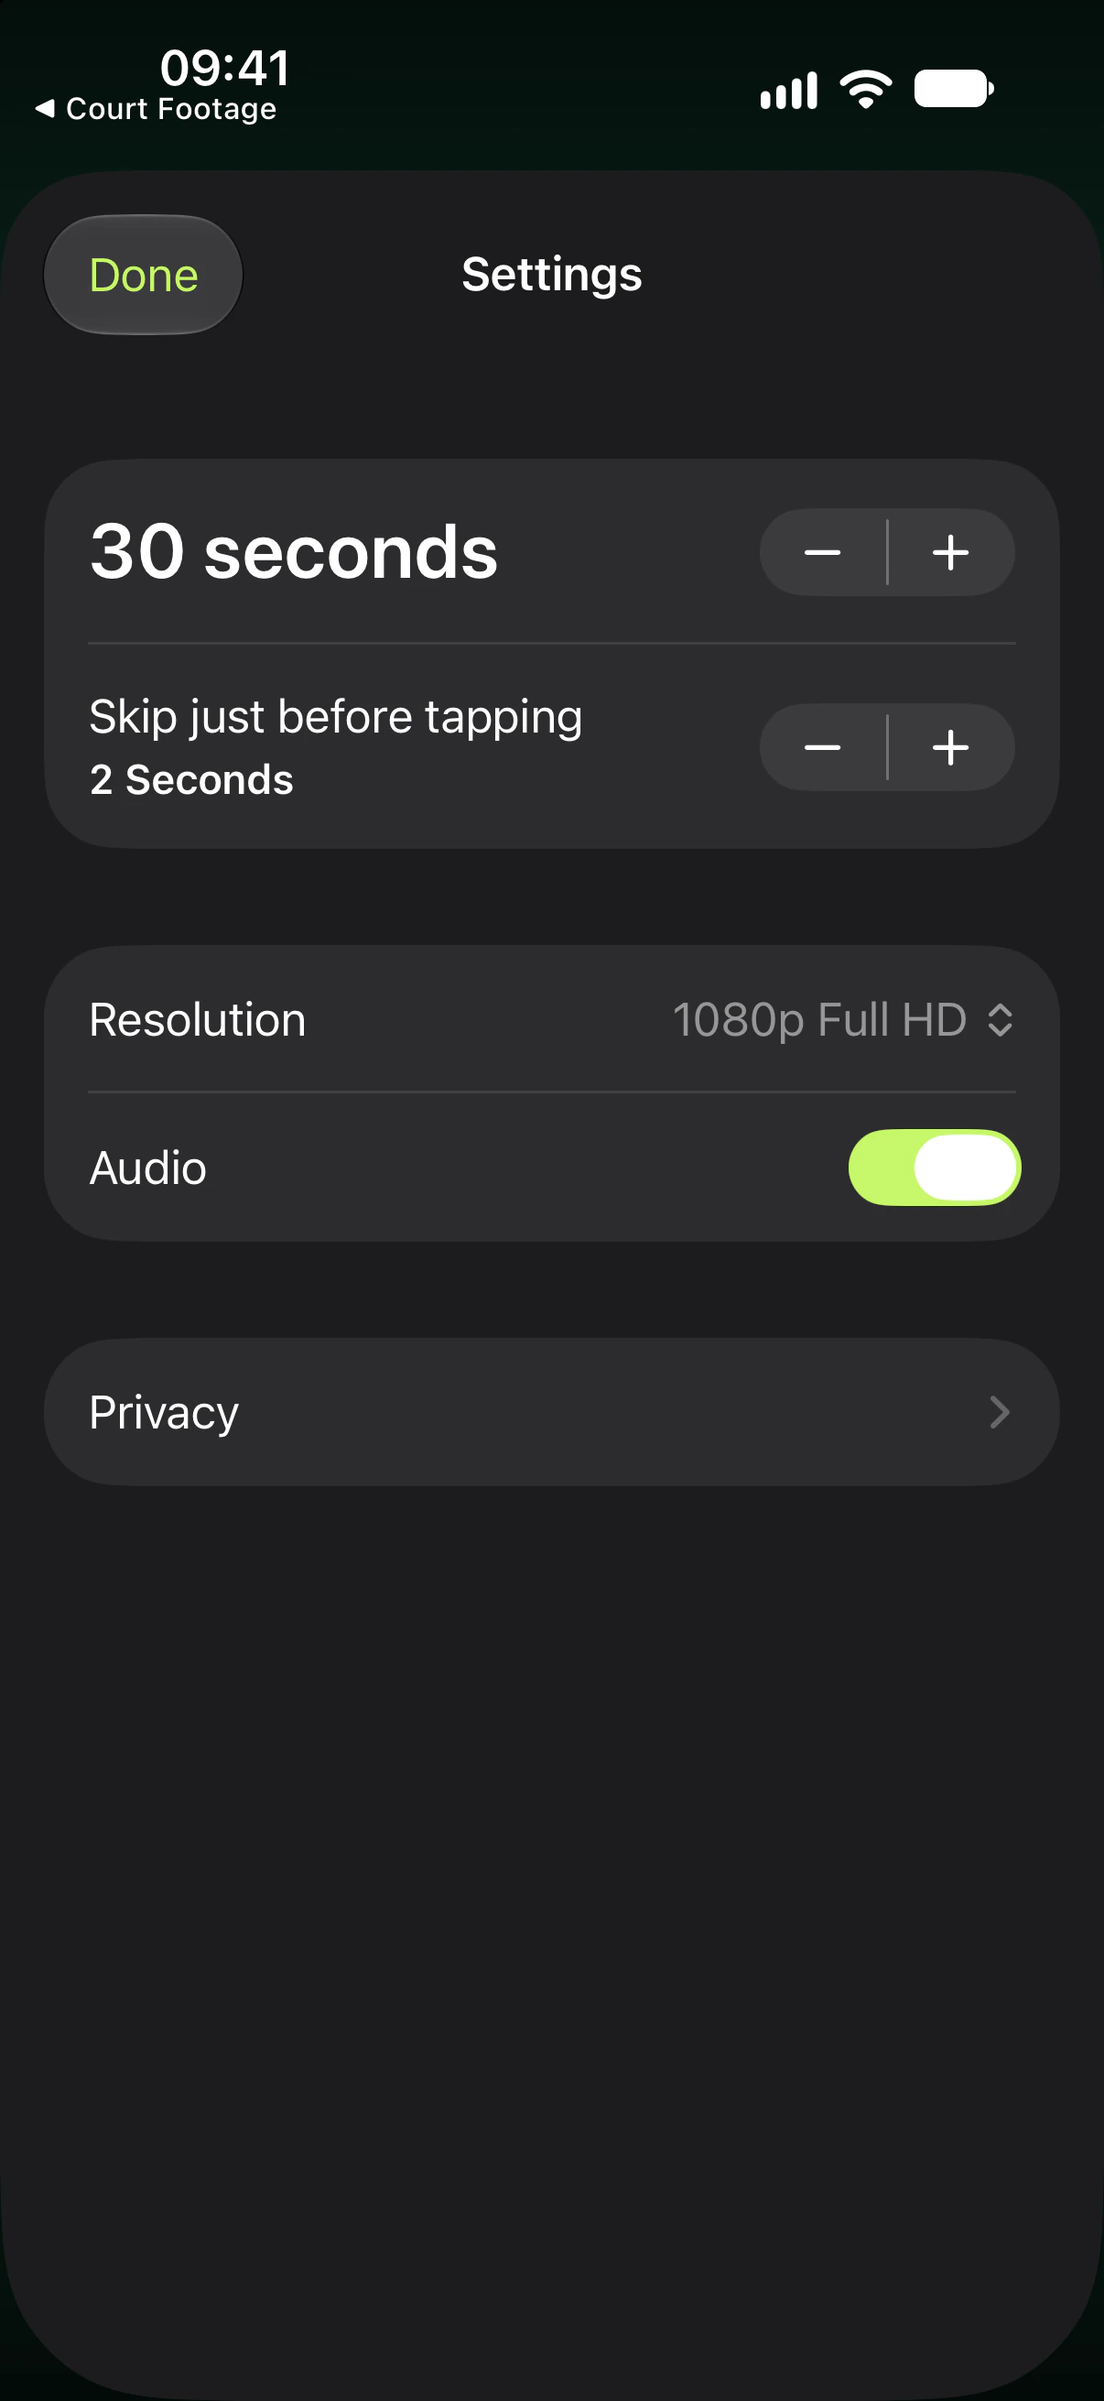
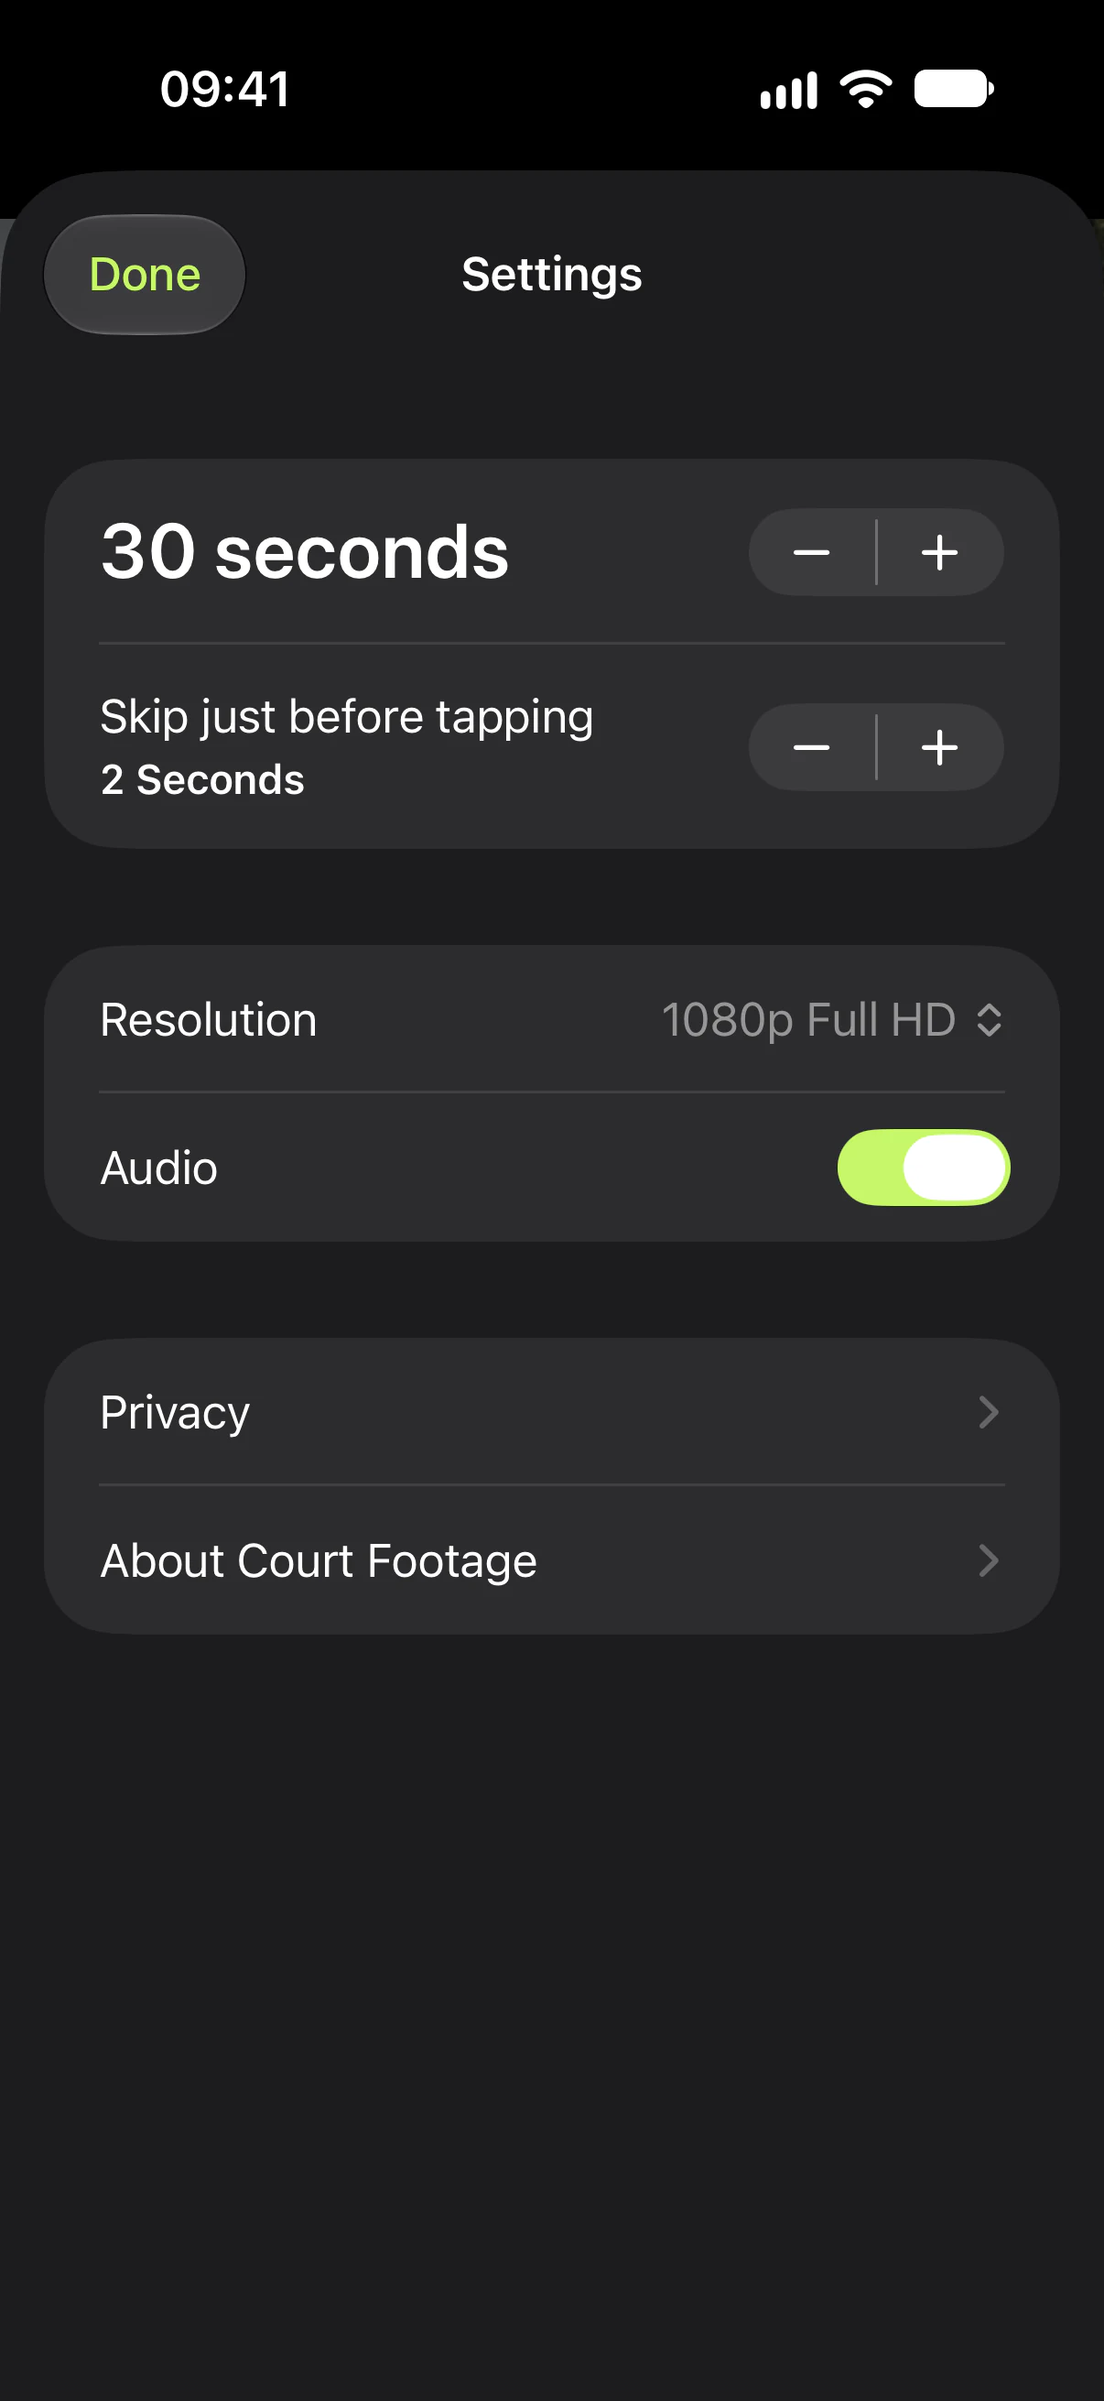
various improvments

diff --git a/PickleballReplay/RecordingView.swift b/PickleballReplay/RecordingView.swift
@@ -7,10 +7,12 @@ import UIKit
 struct RecordingView: View {
     let model: RecordingModel
 
+    @AppStorage("hasShownTapToRecordHint") private var hasShownTapToRecordHint = false
     @State private var preview = PreviewReference()
     @State private var showingSettings = false
     @State private var replayToPlay: SavedReplay?
     @State private var showsSaveFeedback = false
+    @State private var showsTapToRecordHint = false
     @State private var saveRegionFlash: UUID?
     @State private var zoomAtPinchStart: Double?
     @State private var lastCameraControls: CameraControls?
@@ -40,7 +42,12 @@ struct RecordingView: View {
                 .ignoresSafeArea()
                 .accessibilityHidden(true)
 
-            if !model.blockedRequiredPermissions.isEmpty {
+            if let replay = replayToPlay {
+                SavedReplayPlayer(replay: replay, model: model) {
+                    replayToPlay = nil
+                    model.finishReplayPlayback()
+                }
+            } else if !model.blockedRequiredPermissions.isEmpty {
                 RequiredPermissionsView(
                     permissions: model.blockedRequiredPermissions,
                     accent: courtGreen,
@@ -61,16 +68,6 @@ struct RecordingView: View {
                     .accessibilityAction(.escape, dismissReplay)
             } else {
                 cameraScreen
-            }
-        }
-        .accessibilityHidden(replayToPlay != nil)
-        .allowsHitTesting(replayToPlay == nil)
-        .overlay {
-            if let replay = replayToPlay {
-                SavedReplayPlayer(replay: replay, model: model) {
-                    replayToPlay = nil
-                    model.finishReplayPlayback()
-                }
             }
         }
         .preferredColorScheme(.dark)
@@ -122,43 +119,48 @@ struct RecordingView: View {
         GeometryReader { screen in
             let insets = screen.safeAreaInsets
             let viewport = previewSize(in: screen)
+            let region = frame.flatMap { saveRegion(in: viewport, fallbackFrame: $0) }
+
             ZStack {
                 Color.black.ignoresSafeArea()
 
-                if let frame, let region = saveRegion(in: viewport, fallbackFrame: frame) {
+                if let frame, let region {
                     Image(decorative: frame, scale: 1)
                         .resizable()
                         .scaledToFill()
                         .frame(width: region.width, height: region.height)
                         .clipShape(saveRegionShape)
+                        .overlay { replayConfirmation.padding(12) }
                         .position(x: region.midX - insets.leading, y: region.midY - insets.top)
-
-                    ViewThatFits(in: .vertical) {
-                        replayCoverControls
-                            .padding(.top, max(0, region.maxY - insets.top + 4))
-
-                        replayCoverControls
-                            .padding(.horizontal, 12)
-                            .padding(.vertical, 6)
-                            .background(.black.opacity(0.8), in: .rect(cornerRadius: 14))
-                            .padding(.bottom, 8)
-                            .frame(maxHeight: .infinity, alignment: .bottom)
-                    }
-                    .frame(maxWidth: .infinity, maxHeight: .infinity, alignment: .top)
                 } else {
-                    replayCoverControls
+                    replayConfirmation
+                }
+
+                if model.phase == .recording {
+                    let inset = bufferIndicatorHeight / 2 + 8
+                    let bottom = screen.size.height - inset
+                    let belowThumbnail = region.map { $0.maxY - insets.top + inset } ?? bottom
+                    let centerX = region.map { $0.midX - insets.leading } ?? screen.size.width / 2
+                    bufferIndicator
+                        .position(x: centerX, y: min(belowThumbnail, bottom))
+                        .allowsHitTesting(false)
                 }
             }
         }
     }
 
-    private var replayCoverControls: some View {
-        VStack(spacing: 16) {
-            openReplayButton
-            if model.phase == .recording {
-                bufferIndicator
-            }
+    private var replayConfirmation: some View {
+        VStack(spacing: 8) {
+            Text("Video saved.")
+                .font(.headline)
+                .multilineTextAlignment(.center)
+                .foregroundStyle(.white)
+                .accessibilityIdentifier("replaySavedConfirmation")
+            playReplayButton
         }
+        .padding(.horizontal, 18)
+        .padding(.vertical, 12)
+        .background(.black.opacity(0.78), in: .rect(cornerRadius: 16))
     }
 
     private var cameraScreen: some View {
@@ -289,6 +291,13 @@ struct RecordingView: View {
                             }
                             .accessibilitySortPriority(2)
                             .accessibilityIdentifier("saveReplay")
+                            .overlay {
+                                if showsTapToRecordHint {
+                                    tapToRecordHint
+                                }
+                            }
+                            .onAppear(perform: showTapToRecordHintOnce)
+                            .onDisappear { showsTapToRecordHint = false }
                             .position(x: region.midX, y: region.midY)
                     }
                 }
@@ -340,7 +349,33 @@ struct RecordingView: View {
         .accessibilityHidden(true)
     }
 
+    private var tapToRecordHint: some View {
+        ZStack {
+            saveRegionShape.strokeBorder(courtGreen, lineWidth: 2)
+                .accessibilityHidden(true)
+
+            Text("Tap here to record")
+                .font(.headline)
+                .foregroundStyle(.white)
+                .multilineTextAlignment(.center)
+                .padding(.horizontal, 14)
+                .padding(.vertical, 8)
+                .background(.black.opacity(0.85), in: .rect(cornerRadius: 12))
+                .padding(12)
+                .accessibilityIdentifier("tapToRecordHint")
+        }
+        .allowsHitTesting(false)
+    }
+
+    private func showTapToRecordHintOnce() {
+        guard !hasShownTapToRecordHint else { return }
+        hasShownTapToRecordHint = true
+        showsTapToRecordHint = true
+        AccessibilityNotification.Announcement("Double-tap Save replay to save recent footage.").post()
+    }
+
     private func saveFromPreview() {
+        showsTapToRecordHint = false
         saveRegionFlash = UUID()
         model.saveReplay()
     }
@@ -481,6 +516,7 @@ struct RecordingView: View {
 
     private var settingsGear: some View {
         Button {
+            showsTapToRecordHint = false
             showingSettings = true
         } label: {
             cameraControlIcon("gearshape")
@@ -491,11 +527,11 @@ struct RecordingView: View {
         .accessibilityIdentifier("recordingSettings")
     }
 
-    private var openReplayButton: some View {
+    private var playReplayButton: some View {
         Button {
             replayToPlay = model.openRecentReplay()
         } label: {
-            Text("Open…")
+            Text("Play…")
                 .font(.subheadline.weight(.semibold))
                 .foregroundStyle(courtGreen)
                 .padding(.horizontal, 16)
@@ -504,7 +540,7 @@ struct RecordingView: View {
         }
         .buttonStyle(.plain)
         .accessibilityHint("Plays the replay just added to Photos")
-        .accessibilityIdentifier("openSavedReplay")
+        .accessibilityIdentifier("playSavedReplay")
     }
 
     private func cameraControlIcon(_ symbol: String) -> some View {
@@ -754,7 +790,7 @@ private final class PreviewReference {
     private var lastVideoAspect: CGFloat?
 
     func refreshVideoAspect() {
-        guard let view, let video = videoRect(in: view.bounds.size) else { return }
+        guard let view, let video = measuredVideoRect(in: view.bounds.size) else { return }
         let aspect = video.width / video.height
         if lastVideoAspect.map({ abs($0 - aspect) > 0.001 }) ?? true {
             lastVideoAspect = aspect
@@ -770,6 +806,12 @@ private final class PreviewReference {
     }
 
     func videoRect(in size: CGSize) -> CGRect? {
+        // Observe the first usable frame so SwiftUI can reveal the tap area as the preview comes up.
+        guard lastVideoAspect != nil else { return nil }
+        return measuredVideoRect(in: size)
+    }
+
+    private func measuredVideoRect(in size: CGSize) -> CGRect? {
         guard let layer = view?.layer as? AVCaptureVideoPreviewLayer,
               layer.isPreviewing, !layer.bounds.isEmpty else { return nil }
         let bounds = layer.bounds

diff --git a/Website/index.html b/Website/index.html
@@ -12,8 +12,8 @@
   <meta property="og:title" content="Court Footage — Save the rally after it happens">
   <meta property="og:description" content="Instant replay on iPhone for pickleball, tennis, padel, and other court sports. Coming soon.">
   <meta property="og:url" content="https://courtfootage.com/">
-  <meta property="og:image" content="https://courtfootage.com/assets/camera.webp">
-  <meta property="og:image:alt" content="Court Footage camera controls in the iPhone Simulator">
+  <meta property="og:image" content="https://courtfootage.com/assets/camera.webp?v=2">
+  <meta property="og:image:alt" content="Court Footage showing the tap-to-record area on a pickleball court">
   <link rel="icon" type="image/png" href="/assets/app-icon.png">
   <link rel="apple-touch-icon" href="/assets/app-icon.png">
   <link rel="preload" href="/assets/barlow-condensed-bold.woff2" as="font" type="font/woff2" crossorigin>
@@ -38,6 +38,7 @@
           <p class="eyebrow">Instant replay for iPhone</p>
           <h1 id="hero-title">Save the rally <em>after it happens.</em></h1>
           <p class="hero-description">Mount your iPhone, play the point, then tap to save what just happened. For pickleball, tennis, padel, and other court sports.</p>
+          <p class="release-price">Free. No in-app purchases.</p>
           <div class="hero-actions">
             <p class="launch-status">Coming soon</p>
             <a class="text-link" href="https://github.com/joachimneumann/court-footage">Open source on GitHub <span aria-hidden="true">↗</span></a>
@@ -45,7 +46,7 @@
         </div>
         <figure class="camera-preview">
           <div class="phone phone-landscape">
-            <img src="/assets/camera.webp" alt="Court Footage camera screen with court framing and zoom controls" width="2622" height="1206" fetchpriority="high">
+            <img src="/assets/camera.webp?v=2" alt="Court Footage live camera showing a pickleball rally, the tap-to-record area, and zoom controls" width="2622" height="1206" fetchpriority="high">
           </div>
           <figcaption>Camera view · iPhone Simulator</figcaption>
         </figure>
@@ -65,9 +66,15 @@
         </li>
         <li>
           <h3>Watch it back</h3>
-          <p>Open the saved replay in Court Footage while the camera keeps recording. Find the clip in Photos whenever you want it.</p>
+          <p>Tap Play to watch the saved replay in Court Footage while the camera keeps recording. Find the clip in Photos whenever you want it.</p>
         </li>
       </ol>
+      <figure class="replay-preview">
+        <div class="phone phone-landscape">
+          <img src="/assets/saved-replay.webp" alt="Saved pickleball replay thumbnail with a Video saved message above the Play button" width="2622" height="1206" loading="lazy">
+        </div>
+        <figcaption>Saved replay · iPhone Simulator</figcaption>
+      </figure>
     </section>
     <section class="settings container" aria-labelledby="settings-title">
       <div class="settings-copy">
@@ -90,7 +97,7 @@
       </div>
       <figure class="settings-preview">
         <div class="phone phone-portrait">
-          <img src="/assets/settings.webp" alt="Court Footage settings for clip length, seconds to skip, audio, and video quality" width="1206" height="2622" loading="lazy">
+          <img src="/assets/settings.webp?v=2" alt="Court Footage settings for clip length, seconds to skip, audio, and video quality" width="1206" height="2622" loading="lazy">
         </div>
         <figcaption>Recording settings · iPhone Simulator</figcaption>
       </figure>

diff --git a/Website/styles.css b/Website/styles.css
@@ -143,6 +143,13 @@ h2 {
   font-size: clamp(1rem, 1.55vw, 1.2rem);
 }
 
+.release-price {
+  margin-top: 16px;
+  color: var(--accent);
+  font-size: 1.05rem;
+  font-weight: 750;
+}
+
 .hero-actions {
   display: flex;
   flex-wrap: wrap;
@@ -241,6 +248,11 @@ figcaption {
 .steps p, .settings dd, .privacy-summary p, .policy-prose { color: var(--muted); }
 
 .steps p, .settings dd { margin-top: 5px; }
+
+.replay-preview {
+  width: min(100%, 760px);
+  margin: clamp(28px, 5vw, 54px) auto 0;
+}
 
 .settings {
   display: grid;

diff --git a/PickleballReplay/CourtFootageApp.swift b/PickleballReplay/CourtFootageApp.swift
@@ -1,7 +1,7 @@
 import SwiftUI
 
 @main
-struct CourtReplayApp: App {
+struct CourtFootageApp: App {
     @Environment(\.scenePhase) private var scenePhase
     @State private var model = RecordingModel()
 

diff --git a/README.md b/README.md
@@ -2,7 +2,7 @@
 
 [Website](https://courtfootage.com) · [Privacy policy](https://courtfootage.com/privacy)
 
-Court Footage is an iPhone app for saving instant replays from pickleball, tennis, padel, and other court sports to Photos. Open the app to start recording with a live camera view. Tap within the center 80% of the video’s width and height to save a clip. The corners of the tap area briefly brighten. The live camera stays visible during the save. After the save, the clip’s thumbnail and **Open…** button stay on screen while the next buffer fills. Tap **Open…** to play the clip in Court Footage while the camera keeps recording. Playback starts muted when court audio is enabled. Once the next buffer is full, the live camera returns as soon as you close any open replay. The video is also in Photos.
+Court Footage is an iPhone app for saving instant replays from pickleball, tennis, padel, and other court sports to Photos. Open the app to start recording with a live camera view. Tap within the center 80% of the video’s width and height to save a clip. The corners of the tap area briefly brighten. The live camera stays visible during the save. The **Video saved.** confirmation and **Play…** button appear in the center of the clip’s thumbnail while the next buffer fills. Tap **Play…** to watch the clip in Court Footage while the camera keeps recording. Playback starts muted when court audio is enabled. Once the next buffer is full, the live camera returns as soon as you close any open replay. The video is also in Photos.
 
 Tap a zoom preset or pinch the preview to change framing. The zoom options come from the selected camera and video quality. Switching front and rear cameras starts a fresh buffer. Tap the gear beside the camera controls to open Settings and Privacy.
 
@@ -12,9 +12,9 @@ Mount the phone in portrait or landscape before opening the app. Each session ke
 
 ## Run on your iPhone
 
-1. Open `CourtReplay.xcodeproj` in Xcode 27.2 or later.
-2. In the **CourtReplay** target under **Signing & Capabilities**, select your Apple Developer team and set a unique bundle identifier. The checked-in identifier is for local development.
-3. Connect an iPhone running iOS 27 or later, select it as the run destination, and run the **CourtReplay** scheme.
+1. Open `CourtFootage.xcodeproj` in Xcode 27.2 or later.
+2. In the **CourtFootage** target under **Signing & Capabilities**, select your Apple Developer team. For App Store distribution, use the bundle identifier registered for your app in App Store Connect.
+3. Connect an iPhone running iOS 27 or later, select it as the run destination, and run the **CourtFootage** scheme.
 4. When the app opens, read the permission explanation and tap **Continue** to see the iPhone prompts. Camera and permission to add clips to Photos are needed to use the camera screen. If either is off, **Open iPhone Settings** takes you to Court Footage’s system settings. Once the camera is running, try saving at about 12 seconds and again after the progress bar fades out. Play one of the saved clips in Court Footage and confirm the next buffer keeps filling. Open Photos and check the clip lengths, the two seconds skipped before each tap, and court audio. Try a session with audio off and confirm the other quality settings produce the selected resolution.
 
 The Simulator can preview the screen and tap interactions. Launch a Debug build with the `--demo` argument to see a simulated buffer. Use a physical iPhone to test camera capture, audio, and saving real clips.
@@ -22,7 +22,7 @@ The Simulator can preview the screen and tap interactions. Launch a Debug build 
 ## Prepare for the App Store
 
 - Run a full on-court session to check sound sync, heat, battery, and repeated saves. Test capture on an iPhone 11 or second-generation SE and check both displays and folding on an iPhone Duo.
-- Use the [published privacy policy](https://courtfootage.com/privacy) for the in-app Privacy link and App Store Connect. The policy text is in [Release/PrivacyPolicy.md](Release/PrivacyPolicy.md). You can put local signing and URL settings in `Configuration/Local.xcconfig`, which Git ignores. In `.xcconfig` files use `https:$(SLASH)$(SLASH)courtfootage.com/privacy` with `SLASH = /` so Xcode reads the entire URL.
+- Use the [published privacy policy](https://courtfootage.com/privacy) in App Store Connect. The app links to this URL from its Privacy screen. The policy text is in [Release/PrivacyPolicy.md](Release/PrivacyPolicy.md). You can put local build settings in `Configuration/Local.xcconfig`, which Git ignores.
 - Create the iOS app record as **Court Footage** under your individual developer account using the same bundle ID. Archive the Xcode project, upload the build to TestFlight, and use footage from the on-device test for the listing screenshots. Complete the App Store Connect privacy and age rating questionnaires, add the support URL and review notes, and submit the verified build.
 
 ## License
